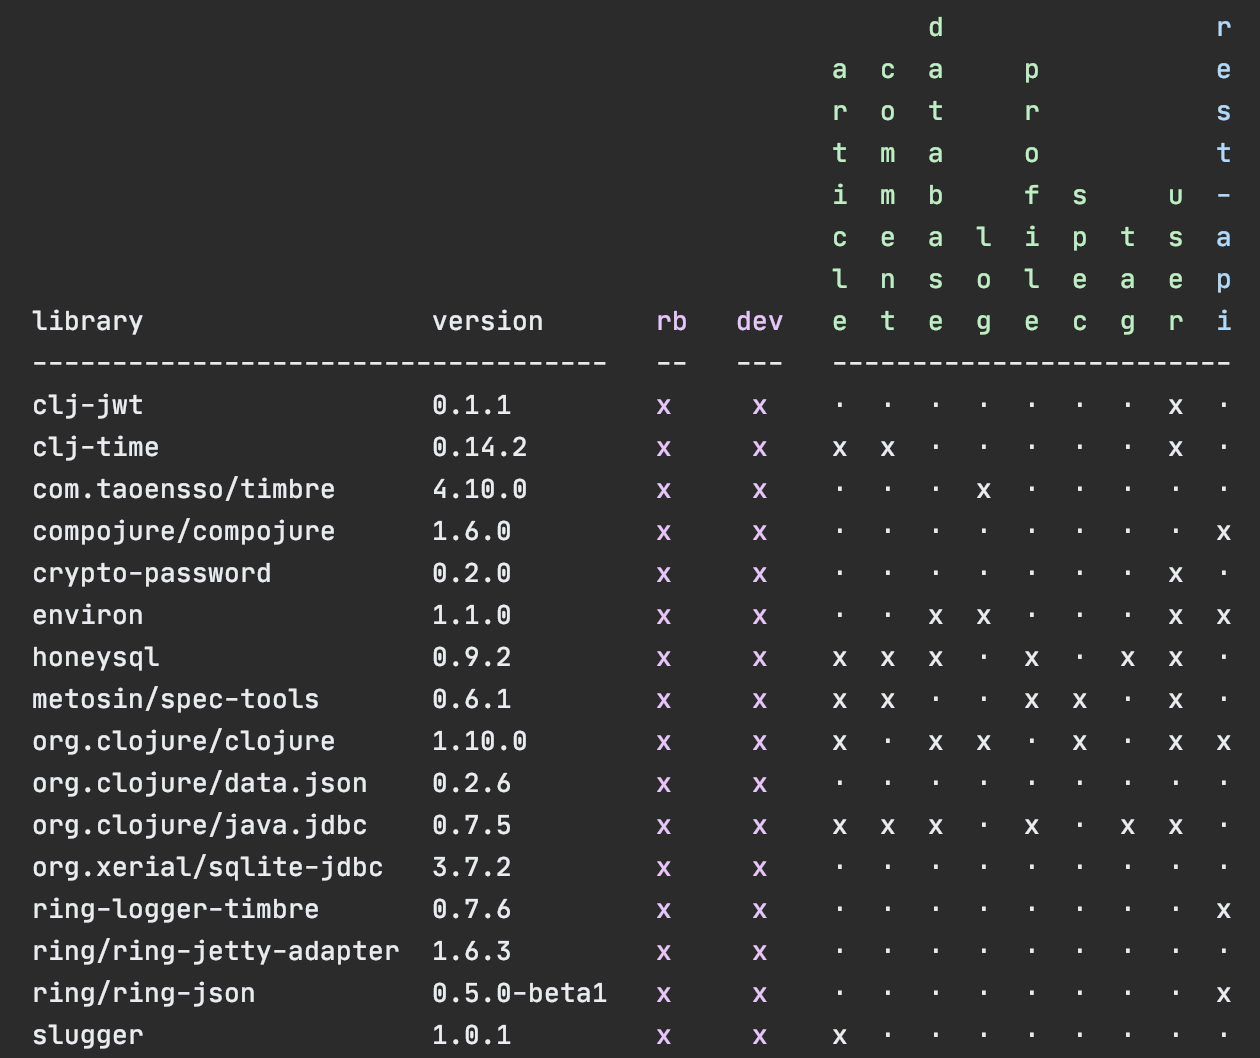
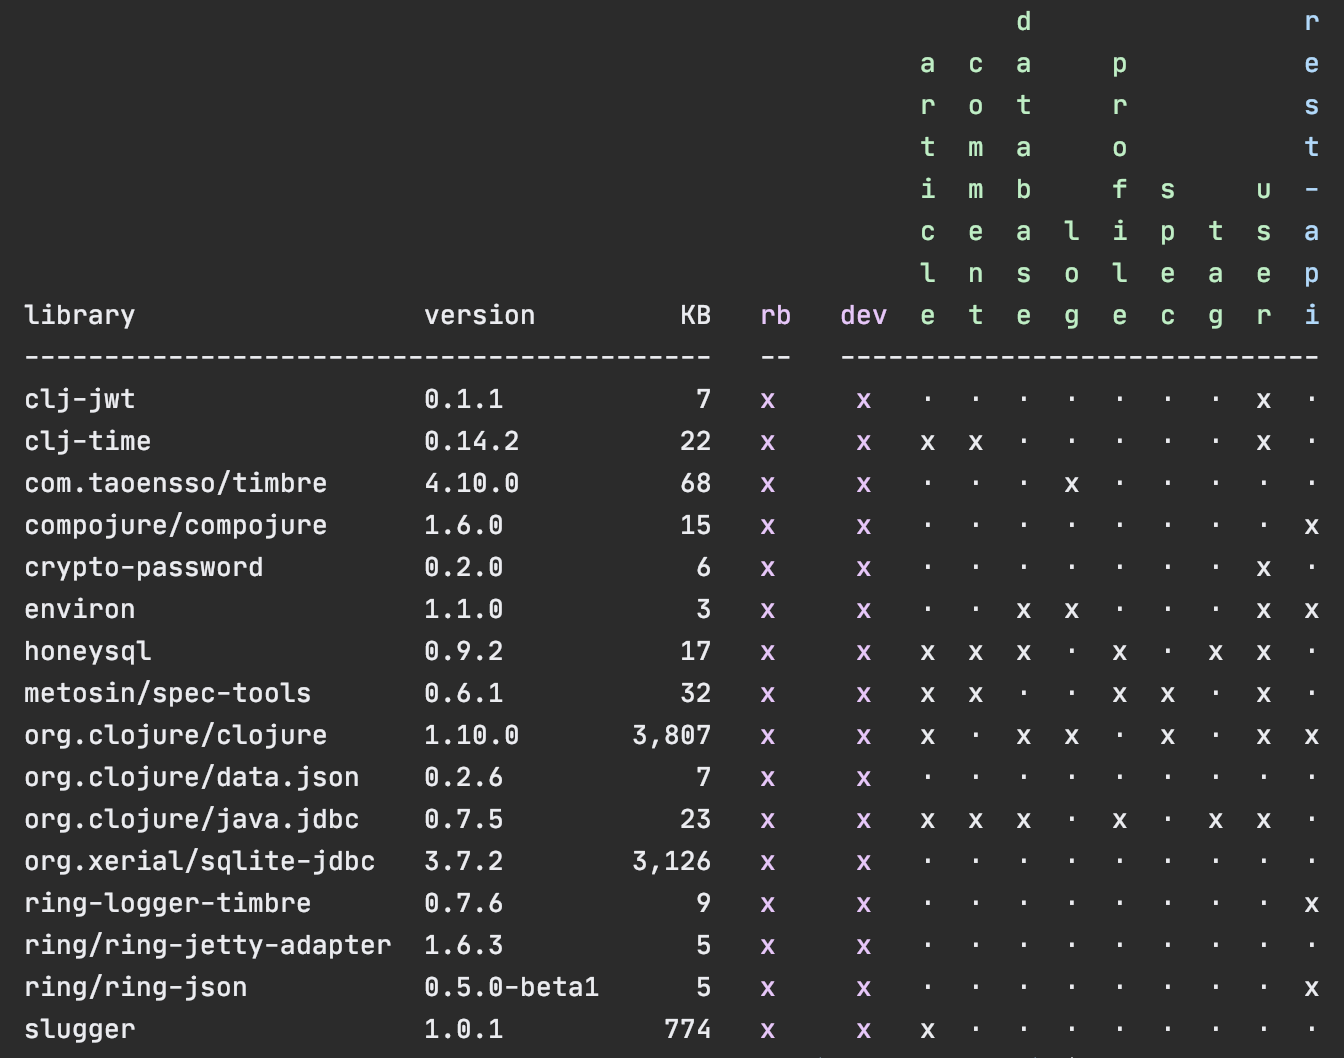
Added new KB column to the library table that shows the size of each library in kilobytes. (#19)

diff --git a/readme.md b/readme.md
@@ -1595,7 +1595,7 @@ poly libs
 ```
 <img src="images/realworld-lib-deps.png" width="60%">
 
-Library dependencies are specified per environment. If needed, different versions
+Library dependencies are specified per environment. The KB column shows the size of each library in kilobytes. If needed, different versions
 of the same library can be used in different environments. Only libraries that are
 defined with `{mvn/version ...}` are listed here.
 
